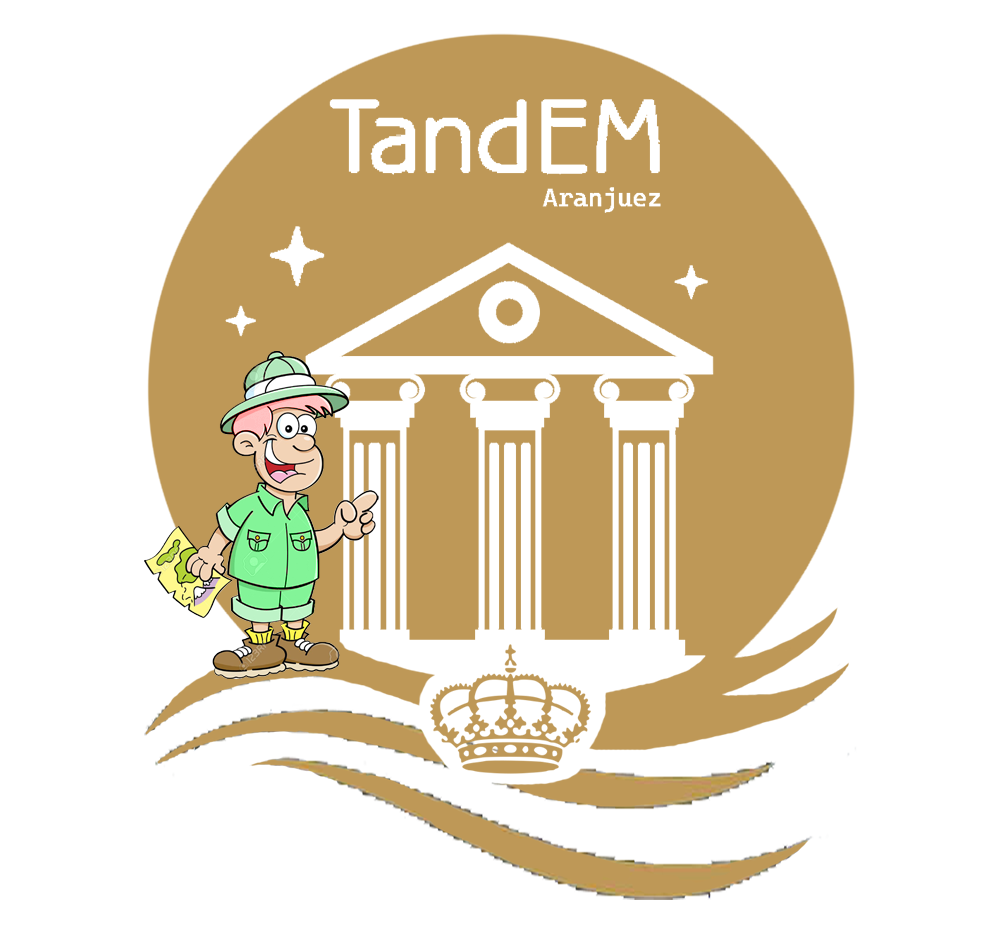
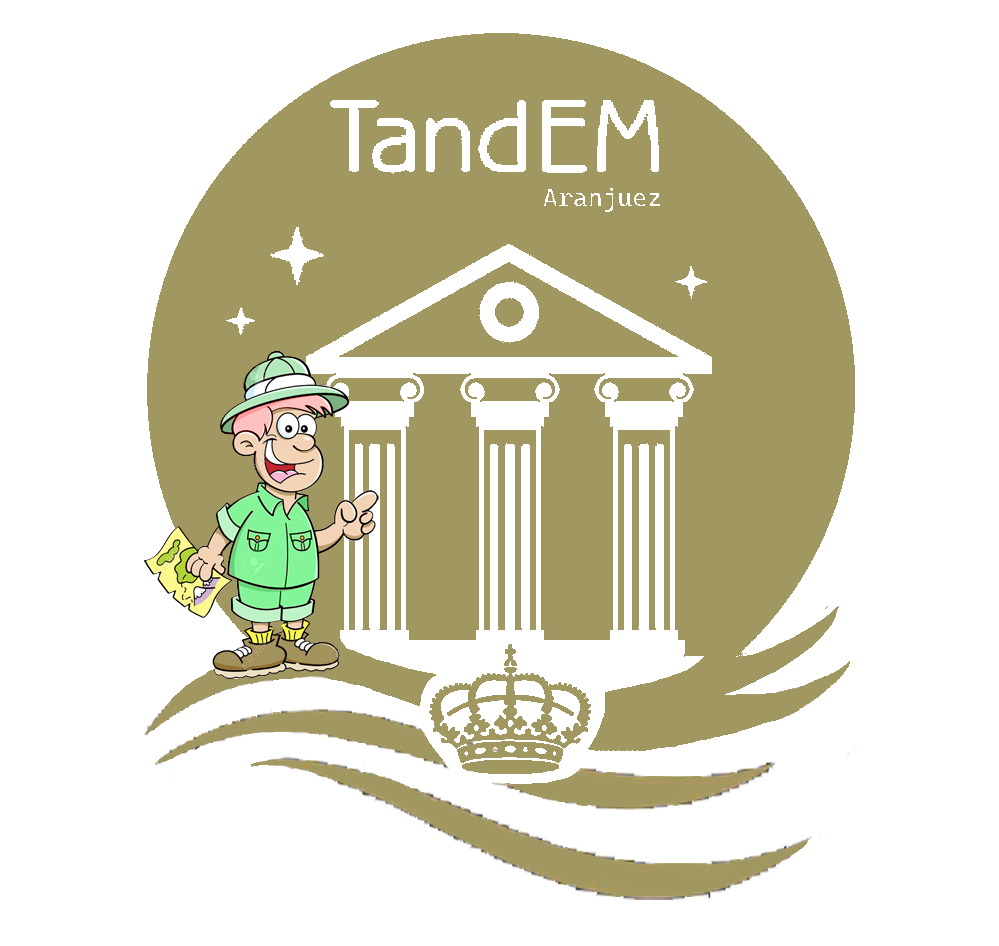
subo archivo

diff --git a/style.css b/style.css
@@ -15,6 +15,7 @@ body {
     height: 100vh;
     width: 100vw;
 }
+
 #map {
     height: 80vh;
     width: 100vw;
@@ -34,7 +35,7 @@ body {
     padding: .5em 2em;
     columns: auto;
     columns: 2;
-    background-color: #269284;
+    background-color: #a19861;
 }
 
 .legend li {
@@ -43,8 +44,9 @@ body {
 
 .legend li a {
 
-    color: rgb(223, 210, 210);
+    color: black;
     text-decoration: none;
+    font-weight: bold;
 }
 
 .legend li a:hover {

diff --git a/style-markers.css b/style-markers.css
@@ -12,7 +12,12 @@
 	width: 25px;
 	text-align: center;
 }
+
 .leaflet-popup-content-wrapper,
 .leaflet-popup-tip {
-	background-color: rgb(219, 248, 189);
+	background-color: #A19861;
+}
+
+.leaflet-popup-content-wrapper a {
+	color: white;
 }

diff --git a/leaflet-numbered-markers.js b/leaflet-numbered-markers.js
@@ -5,7 +5,7 @@ L.NumberedDivIcon = L.Icon.extend({
     number: '',
     shadowUrl: null,
     iconSize: new L.Point( 50,50),
-		iconAnchor: new L.Point(37, 75),
+		iconAnchor: new L.Point(25, 70),
 		popupAnchor: new L.Point(0, -33),
 		
 		

diff --git a/espacio.js b/espacio.js
@@ -57,8 +57,8 @@ var polygon = L.polygon([
          
 
 ], {
-    color: 'red',
-    fillColor: '#f03',
+    color: '#A19861',
+    fillColor: 'red',
     fillOpacity: 0.2,
     radius: 500
 }).addTo(map)
